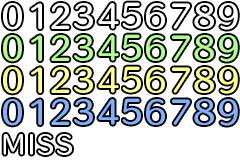
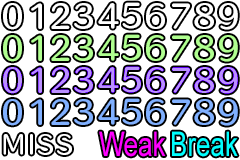
Pseudo Final Build

diff --git a/js/plugins.js b/js/plugins.js
@@ -9,7 +9,17 @@ var $plugins =
 {"name":"YEP_BattleEngineCore","status":true,"description":"v1.50 Have more control over the flow of the battle system\nwith this plugin and alter various aspects to your liking.","parameters":{"---General---":"","Action Speed":"agi","Default System":"dtb","---Escape---":"","Escape Ratio":"0.5 * $gameParty.agility() / $gameTroop.agility()","Fail Escape Boost":"0.10","---Animation---":"","Animation Base Delay":"0","Animation Next Delay":"0","Certain Hit Animation":"0","Physical Animation":"52","Magical Animation":"51","Enemy Attack Animation":"39","Reflect Animation":"42","Motion Waiting":"false","---Frontview---":"","Front Position X":"Graphics.boxWidth / 8 + Graphics.boxWidth / 4 * index","Front Position Y":"Graphics.boxHeight - 180","Front Actor Sprite":"false","Front Sprite Priority":"1","---Sideview---":"","Home Position X":"screenWidth - 16 - (maxSize + 2) * 32 + index * 32","Home Position Y":"screenHeight - statusHeight - maxSize * 48 + (index+1) * 48 - 32","Side Sprite Priority":"1","---Sprites---":"","Default X Anchor":"0.50","Default Y Anchor":"1.00","Step Distance":"48","Flinch Distance":"12","Show Shadows":"true","---Damage Popups---":"","Popup Duration":"128","Newest Popup Bottom":"true","Popup Overlap Rate":"0.9","Critical Popup":"255, 0, 0, 160","Critical Duration":"60","---Tick-Settings---":"","Timed States":"false","Timed Buffs":"false","Turn Time":"100","AI Self Turns":"true","---Window Settings---":"","Lower Windows":"true","Window Rows":"4","Command Window Rows":"4","Command Alignment":"center","Start Actor Command":"true","Current Max":"false","---Selection Help---":"","Mouse Over":"true","Select Help Window":"true","User Help Text":"User","Ally Help Text":"Ally","Allies Help Text":"Allies","Enemy Help Text":"Enemy","Enemies Help Text":"Enemies","All Help Text":"All %1","Random Help Text":"%2 Random %1","---Enemy Select---":"","Visual Enemy Select":"true","Show Enemy Name":"true","Show Select Box":"false","Enemy Font Size":"20","Enemy Auto Select":"this.furthestRight()","---Actor Select---":"","Visual Actor Select":"true","---Battle Log---":"","Show Emerge Text":"false","Show Pre-Emptive Text":"true","Show Surprise Text":"true","Optimize Speed":"true","Show Action Text":"false","Show State Text":"false","Show Buff Text":"false","Show Counter Text":"true","Show Reflect Text":"true","Show Substitute Text":"true","Show Fail Text":"false","Show Critical Text":"false","Show Miss Text":"false","Show Evasion Text":"false","Show HP Text":"false","Show MP Text":"false","Show TP Text":"false"}},
 {"name":"YEP_DamageCore","status":true,"description":"v1.08 Expand the control you have over the game's damage\ncalculation with more features and effects.","parameters":{"---Damage Cap---":"","Enable Cap":"true","Maximum Damage":"9999","Maximum Healing":"9999","---Damage Steps---":"","Damage Step 1":"baseDamage = this.modifyBaseDamage(value, baseDamage, target);","Damage Step 2":"baseDamage *= this.calcElementRate(target);","Damage Step 3":"","Damage Step 4":"","Damage Step 5":"","Damage Step 6":"critical = this.modifyCritical(critical, baseDamage, target);","Damage Step 7":"target.result().critical = critical;","Damage Step 8":"value = baseDamage;","Damage Step 9":"","Damage Step 10":"if (baseDamage > 0) {","Damage Step 11":"value = this.applyDamageRate(value, baseDamage, target);","Damage Step 12":"","Damage Step 13":"","Damage Step 14":"","Damage Step 15":"","Damage Step 16":"","Damage Step 17":"","Damage Step 18":"}","Damage Step 19":"","Damage Step 20":"if (baseDamage < 0) {","Damage Step 21":"value = this.applyHealRate(value, baseDamage, target);","Damage Step 22":"","Damage Step 23":"","Damage Step 24":"","Damage Step 25":"","Damage Step 26":"","Damage Step 27":"","Damage Step 28":"}","Damage Step 29":"","Damage Step 30":"if (critical) {","Damage Step 31":"value = this.applyCriticalRate(value, baseDamage, target);","Damage Step 32":"","Damage Step 33":"","Damage Step 34":"","Damage Step 35":"","Damage Step 36":"","Damage Step 37":"","Damage Step 38":"}","Damage Step 39":"","Damage Step 40":"if (this.isPhysical()) {","Damage Step 41":"value = this.applyPhysicalRate(value, baseDamage, target);","Damage Step 42":"","Damage Step 43":"","Damage Step 44":"","Damage Step 45":"","Damage Step 46":"","Damage Step 47":"value = this.applyFlatPhysical(value, baseDamage, target);","Damage Step 48":"}","Damage Step 49":"","Damage Step 50":"if (this.isMagical()) {","Damage Step 51":"value = this.applyMagicalRate(value, baseDamage, target);","Damage Step 52":"","Damage Step 53":"","Damage Step 54":"","Damage Step 55":"","Damage Step 56":"","Damage Step 57":"value = this.applyFlatMagical(value, baseDamage, target);","Damage Step 58":"}","Damage Step 59":"","Damage Step 60":"if (baseDamage > 0) {","Damage Step 61":"value = this.applyFlatDamage(value, baseDamage, target);","Damage Step 62":"","Damage Step 63":"","Damage Step 64":"","Damage Step 65":"","Damage Step 66":"","Damage Step 67":"","Damage Step 68":"}","Damage Step 69":"","Damage Step 70":"if (baseDamage < 0) {","Damage Step 71":"value = this.applyFlatHeal(value, baseDamage, target);","Damage Step 72":"","Damage Step 73":"","Damage Step 74":"","Damage Step 75":"","Damage Step 76":"","Damage Step 77":"","Damage Step 78":"}","Damage Step 79":"","Damage Step 80":"if (critical) {","Damage Step 81":"value = this.applyFlatCritical(value, baseDamage, target);","Damage Step 82":"","Damage Step 83":"","Damage Step 84":"","Damage Step 85":"","Damage Step 86":"","Damage Step 87":"","Damage Step 88":"}","Damage Step 89":"","Damage Step 90":"value = this.applyVariance(value, item.damage.variance);","Damage Step 91":"","Damage Step 92":"","Damage Step 93":"","Damage Step 94":"","Damage Step 95":"value = this.applyGuard(value, target);","Damage Step 96":"","Damage Step 97":"","Damage Step 98":"","Damage Step 99":"value = this.applyFlatGlobal(value, baseDamage, target);","Damage Step 100":"value = this.applyMinimumDamage(value, baseDamage, target);"}},
 {"name":"YEP_X_ArmorScaling","status":true,"description":"v1.05 (Requires YEP_DamageCore.js) Scale defensive\nstats relative to a universal scale.","parameters":{"---Physical---":"","Positive Physical Rate":"value *= 100 / (100 + armor)","Negative Physical Rate":"value *= 2 - (100 / (100 - armor))","Physical Base Armor":"target.def / 2","---Magical---":"","Positive Magical Rate":"value *= 100 / (100 + armor)","Negative Magical Rate":"value *= 2 - (100 / (100 - armor))","Magical Base Armor":"target.mdf / 2","---Certain---":"","Positive Certain Rate":"value *= 100 / (100 + armor)","Negative Certain Rate":"value *= 2 - (100 / (100 - armor))","Certain Base Armor":"0"}},
+{"name":"YEP_X_VisualHpGauge","status":true,"description":"v1.07 (Requires YEP_BattleEngineCore.js) Reveal HP Gauges\nwhen a battler is selected or takes damage in battle.","parameters":{"---General---":"","Display Actor":"false","Defeat First":"false","Always Visible":"true","---Appearance---":"","Minimum Gauge Width":"144","Gauge Height":"18","Back Color":"19","HP Color 1":"20","HP Color 2":"21","Gauge Duration":"30","Gauge Position":"false","Y Buffer":"-16","Use Thick Gauges":"true","---Text Display---":"","Show HP":"false","Show Value":"false","Show Max":"false"}},
+{"name":"Olivia_BattleSysOTB","status":true,"description":"<BattleSysOTB> for RPG Maker MV version 1.6.1.","parameters":{"":"","ATTENTION!!!":"READ THE HELP FILE","Warning OTB":"Requires YEP_BattleEngineCore","OTB Force Battle System":"true","OTB Mechancs":"","OTB Mechanics Action Speed Convert":"true","OTB Mechanics Buff Debuff AGI Convert":"true","OTB Mechanics Added Action Times":"true","OTB Mechanics Action Time Order Randomize":"true","OTB Mechanics Enable Party Window":"false","OTB Mechanics Escape Actor Window":"true","OTB Mechanics Remove Restrict Current":"true","OTB Mechanics Remove Restrict Next":"true","OTB Mechanics Static AGI Calculation":"true","OTB Mechanics Stun Wakeup First":"true","OTB Mechanics Stun Wakeup Clamp":"true","OTB Visuals":"","OTB Sprite Background Colors":"","OTB Background Actor Color":"rgba(128, 160, 255, 0.6)","OTB Background Enemy Color":"rgba(255, 100, 80, 0.6)","OTB Turn Order Display":"","OTB Display X":"48","OTB Display Y":"18","OTB Display Help Window Move Y":"18","OTB Display Help Window Move Speed":"16","OTB Display Current Text":"CURRENT","OTB Display Current Size":"20","OTB Display Next Text":"NEXT","OTB Display Next Size":"20","OTB Sprite Properties":"","OTB Sprite Move Duration":"20","OTB Sprite Opacity Speed":"16","OTB Battle Scene Properties":"","OTB Help Window Y":"92","OTB Log Window Y":"92"}},
+{"name":"Olivia_BattleEffects","status":true,"description":"<BattleEffects> for RPG Maker MV version 1.6.1.","parameters":{"":"","ATTENTION!!!":"READ THE HELP FILE","Battle Effects Weak Popups":"true","Battle Effects Weak Popup Require Rate":"1.1","Battle Effects Weak Popup Cell X":"4","Battle Effects Weak Popup Cell Width":"3","Battle Effects Weak Popup Cell X Factor":"0.25","Battle Effects Weak Popup Cell Y Factor":"0.60","Battle Effects Weak Popup Move X Base":"-0.04","Battle Effects Weak Popup Move X Rate":"1.1","Battle Effects Weak Popup Move Y Base":"0","Battle Effects Weak Popup Move Y Rate":"0","Battle Effects Break Popups":"true","Battle Effects Break Popup Cell X":"7","Battle Effects Break Popup Cell Width":"3","Battle Effects Break Popup Cell X Factor":"0.25","Battle Effects Break Popup Cell Y Factor":"0.60","Battle Effects Break Popup Move X Base":"-0.04","Battle Effects Break Popup Move X Rate":"1.1","Battle Effects Break Popup Move Y Base":"0","Battle Effects Break Popup Move Y Rate":"0","Stacking Buff/Debuffs":"","Battle Effects Stack Buff Turns":"true","Battle Effects Max Buff Turns":"9","Battle Effects Stack Debuff Turns":"true","Battle Effects Max Debuff Turns":"9"}},
 {"name":"YEP_LifeSteal","status":true,"description":"v1.04 Enables passive life steal traits without them being\nactive abilities but instead as passive traits.","parameters":{"Enable HP Overheal":"false","Enable MP Overheal":"false","Negative HP LifeSteal":"false","Negative MP LifeSteal":"false"}},
 {"name":"YEP_SkillCore","status":true,"description":"v1.13 Skills are now given more functions and the ability\r\nto require different types of costs.","parameters":{"---General---":"","Cost Padding":"4","Command Alignment":"center","Window Columns":"2","---HP Costs---":"","HP Format":"%1%2","HP Font Size":"20","HP Text Color":"18","HP Icon":"162","---MP Costs---":"","MP Format":"%1%2","MP Font Size":"20","MP Text Color":"23","MP Icon":"165","---TP Costs---":"","TP Format":"%1%2","TP Font Size":"20","TP Text Color":"29","TP Icon":"164"}},
-{"name":"Olivia_WeaknessDisplay","status":false,"description":"<WeaknessDisplay> for RPG Maker MV version 1.6.1.","parameters":{"":"","ATTENTION!!!":"READ THE HELP FILE","Weakness Element Data":"","Shown Elements":"[\"1\",\"2\",\"3\",\"4\",\"5\",\"6\",\"7\",\"8\",\"9\"]","Element Icons":"[\"76\",\"64\",\"65\",\"66\",\"67\",\"68\",\"69\",\"70\",\"71\"]","Unknown Weakness Icon":"16","Weakness Window Data":"","Weakness Always Show":"true","Weakness Hide Duration":"180","Weakness Show Break Shield":"true","Weakness Stun Duration":"false","Weakness Show HP Gauge":"true","HP Gauge Minimum Width":"100","HP Gauge Padding":"25","Weakness Show Name":"true","Name Font Size":"22","50% HP Color":"17","25% HP Color":"2","Weakness Show States":"true","Small Weakness Icons":"true","Weak Icon Size":"0.6"}}
+{"name":"YEP_SegmentedGauges","status":true,"description":"v1.01 Segment up your gauges to make them easier to read.","parameters":{"---Segments---":"","HP Gauge Segments":"100","MP Gauge Segments":"15","TP Gauge Segments":"10","---Status Menu Core---":"","EXP Gauge Segments":"100","Param Gauge Segments":"100"}},
+{"name":"YEP_CreditsPage","status":true,"description":"v1.02 Adds a 'Credits' command to the title screen that\nwill take the player to a credits scene.","parameters":{"---General---":"","Command Name":"Credits","---Credit Lines---":"","Line 1 Text":"","Line 1 URL":"","Line 2 Text":"","Line 2 URL":"","Line 3 Text":"","Line 3 URL":"","Line 4 Text":"","Line 4 URL":"","Line 5 Text":"","Line 5 URL":"","Line 6 Text":"","Line 6 URL":"","Line 7 Text":"","Line 7 URL":"","Line 8 Text":"","Line 8 URL":"","Line 9 Text":"","Line 9 URL":"","Line 10 Text":"","Line 10 URL":"","Line 11 Text":"","Line 11 URL":"","Line 12 Text":"","Line 12 URL":"","Line 13 Text":"","Line 13 URL":"","Line 14 Text":"","Line 14 URL":"","Line 15 Text":"","Line 15 URL":"","Line 16 Text":"","Line 16 URL":"","Line 17 Text":"","Line 17 URL":"","Line 18 Text":"","Line 18 URL":"","Line 19 Text":"","Line 19 URL":"","Line 20 Text":"","Line 20 URL":"","Line 21 Text":"","Line 21 URL":"","Line 22 Text":"","Line 22 URL":"","Line 23 Text":"","Line 23 URL":"","Line 24 Text":"","Line 24 URL":"","Line 25 Text":"","Line 25 URL":"","Line 26 Text":"","Line 26 URL":"","Line 27 Text":"","Line 27 URL":"","Line 28 Text":"","Line 28 URL":"","Line 29 Text":"","Line 29 URL":"","Line 30 Text":"","Line 30 URL":"","Line 31 Text":"","Line 31 URL":"","Line 32 Text":"","Line 32 URL":"","Line 33 Text":"","Line 33 URL":"","Line 34 Text":"","Line 34 URL":"","Line 35 Text":"","Line 35 URL":"","Line 36 Text":"","Line 36 URL":"","Line 37 Text":"","Line 37 URL":"","Line 38 Text":"","Line 38 URL":"","Line 39 Text":"","Line 39 URL":"","Line 40 Text":"","Line 40 URL":"","Line 41 Text":"","Line 41 URL":"","Line 42 Text":"","Line 42 URL":"","Line 43 Text":"","Line 43 URL":"","Line 44 Text":"","Line 44 URL":"","Line 45 Text":"","Line 45 URL":"","Line 46 Text":"","Line 46 URL":"","Line 47 Text":"","Line 47 URL":"","Line 48 Text":"","Line 48 URL":"","Line 49 Text":"","Line 49 URL":"","Line 50 Text":"","Line 50 URL":"","Line 51 Text":"","Line 51 URL":"","Line 52 Text":"","Line 52 URL":"","Line 53 Text":"","Line 53 URL":"","Line 54 Text":"","Line 54 URL":"","Line 55 Text":"","Line 55 URL":"","Line 56 Text":"","Line 56 URL":"","Line 57 Text":"","Line 57 URL":"","Line 58 Text":"","Line 58 URL":"","Line 59 Text":"","Line 59 URL":"","Line 60 Text":"","Line 60 URL":"","Line 61 Text":"","Line 61 URL":"","Line 62 Text":"","Line 62 URL":"","Line 63 Text":"","Line 63 URL":"","Line 64 Text":"","Line 64 URL":"","Line 65 Text":"","Line 65 URL":"","Line 66 Text":"","Line 66 URL":"","Line 67 Text":"","Line 67 URL":"","Line 68 Text":"","Line 68 URL":"","Line 69 Text":"","Line 69 URL":"","Line 70 Text":"","Line 70 URL":"","Line 71 Text":"","Line 71 URL":"","Line 72 Text":"","Line 72 URL":"","Line 73 Text":"","Line 73 URL":"","Line 74 Text":"","Line 74 URL":"","Line 75 Text":"","Line 75 URL":"","Line 76 Text":"","Line 76 URL":"","Line 77 Text":"","Line 77 URL":"","Line 78 Text":"","Line 78 URL":"","Line 79 Text":"","Line 79 URL":"","Line 80 Text":"","Line 80 URL":"","Line 81 Text":"","Line 81 URL":"","Line 82 Text":"","Line 82 URL":"","Line 83 Text":"","Line 83 URL":"","Line 84 Text":"","Line 84 URL":"","Line 85 Text":"","Line 85 URL":"","Line 86 Text":"","Line 86 URL":"","Line 87 Text":"","Line 87 URL":"","Line 88 Text":"","Line 88 URL":"","Line 89 Text":"","Line 89 URL":"","Line 90 Text":"","Line 90 URL":"","Line 91 Text":"","Line 91 URL":"","Line 92 Text":"","Line 92 URL":"","Line 93 Text":"","Line 93 URL":"","Line 94 Text":"","Line 94 URL":"","Line 95 Text":"","Line 95 URL":"","Line 96 Text":"","Line 96 URL":"","Line 97 Text":"","Line 97 URL":"","Line 98 Text":"","Line 98 URL":"","Line 99 Text":"","Line 99 URL":"","Line 100 Text":"","Line 100 URL":"","Line 101 Text":"","Line 101 URL":"","Line 102 Text":"","Line 102 URL":"","Line 103 Text":"","Line 103 URL":"","Line 104 Text":"","Line 104 URL":"","Line 105 Text":"","Line 105 URL":"","Line 106 Text":"","Line 106 URL":"","Line 107 Text":"","Line 107 URL":"","Line 108 Text":"","Line 108 URL":"","Line 109 Text":"","Line 109 URL":"","Line 110 Text":"","Line 110 URL":"","Line 111 Text":"","Line 111 URL":"","Line 112 Text":"","Line 112 URL":"","Line 113 Text":"","Line 113 URL":"","Line 114 Text":"","Line 114 URL":"","Line 115 Text":"","Line 115 URL":"","Line 116 Text":"","Line 116 URL":"","Line 117 Text":"","Line 117 URL":"","Line 118 Text":"","Line 118 URL":"","Line 119 Text":"","Line 119 URL":"","Line 120 Text":"","Line 120 URL":"","Line 121 Text":"","Line 121 URL":"","Line 122 Text":"","Line 122 URL":"","Line 123 Text":"","Line 123 URL":"","Line 124 Text":"","Line 124 URL":"","Line 125 Text":"","Line 125 URL":"","Line 126 Text":"","Line 126 URL":"","Line 127 Text":"","Line 127 URL":"","Line 128 Text":"","Line 128 URL":"","Line 129 Text":"","Line 129 URL":"","Line 130 Text":"","Line 130 URL":"","Line 131 Text":"","Line 131 URL":"","Line 132 Text":"","Line 132 URL":"","Line 133 Text":"","Line 133 URL":"","Line 134 Text":"","Line 134 URL":"","Line 135 Text":"","Line 135 URL":"","Line 136 Text":"","Line 136 URL":"","Line 137 Text":"","Line 137 URL":"","Line 138 Text":"","Line 138 URL":"","Line 139 Text":"","Line 139 URL":"","Line 140 Text":"","Line 140 URL":"","Line 141 Text":"","Line 141 URL":"","Line 142 Text":"","Line 142 URL":"","Line 143 Text":"","Line 143 URL":"","Line 144 Text":"","Line 144 URL":"","Line 145 Text":"","Line 145 URL":"","Line 146 Text":"","Line 146 URL":"","Line 147 Text":"","Line 147 URL":"","Line 148 Text":"","Line 148 URL":"","Line 149 Text":"","Line 149 URL":"","Line 150 Text":"","Line 150 URL":"","Line 151 Text":"","Line 151 URL":"","Line 152 Text":"","Line 152 URL":"","Line 153 Text":"","Line 153 URL":"","Line 154 Text":"","Line 154 URL":"","Line 155 Text":"","Line 155 URL":"","Line 156 Text":"","Line 156 URL":"","Line 157 Text":"","Line 157 URL":"","Line 158 Text":"","Line 158 URL":"","Line 159 Text":"","Line 159 URL":"","Line 160 Text":"","Line 160 URL":"","Line 161 Text":"","Line 161 URL":"","Line 162 Text":"","Line 162 URL":"","Line 163 Text":"","Line 163 URL":"","Line 164 Text":"","Line 164 URL":"","Line 165 Text":"","Line 165 URL":"","Line 166 Text":"","Line 166 URL":"","Line 167 Text":"","Line 167 URL":"","Line 168 Text":"","Line 168 URL":"","Line 169 Text":"","Line 169 URL":"","Line 170 Text":"","Line 170 URL":"","Line 171 Text":"","Line 171 URL":"","Line 172 Text":"","Line 172 URL":"","Line 173 Text":"","Line 173 URL":"","Line 174 Text":"","Line 174 URL":"","Line 175 Text":"","Line 175 URL":"","Line 176 Text":"","Line 176 URL":"","Line 177 Text":"","Line 177 URL":"","Line 178 Text":"","Line 178 URL":"","Line 179 Text":"","Line 179 URL":"","Line 180 Text":"","Line 180 URL":"","Line 181 Text":"","Line 181 URL":"","Line 182 Text":"","Line 182 URL":"","Line 183 Text":"","Line 183 URL":"","Line 184 Text":"","Line 184 URL":"","Line 185 Text":"","Line 185 URL":"","Line 186 Text":"","Line 186 URL":"","Line 187 Text":"","Line 187 URL":"","Line 188 Text":"","Line 188 URL":"","Line 189 Text":"","Line 189 URL":"","Line 190 Text":"","Line 190 URL":"","Line 191 Text":"","Line 191 URL":"","Line 192 Text":"","Line 192 URL":"","Line 193 Text":"","Line 193 URL":"","Line 194 Text":"","Line 194 URL":"","Line 195 Text":"","Line 195 URL":"","Line 196 Text":"","Line 196 URL":"","Line 197 Text":"","Line 197 URL":"","Line 198 Text":"","Line 198 URL":"","Line 199 Text":"","Line 199 URL":"","Line 200 Text":"","Line 200 URL":"","Line 201 Text":"","Line 201 URL":"","Line 202 Text":"","Line 202 URL":"","Line 203 Text":"","Line 203 URL":"","Line 204 Text":"","Line 204 URL":"","Line 205 Text":"","Line 205 URL":"","Line 206 Text":"","Line 206 URL":"","Line 207 Text":"","Line 207 URL":"","Line 208 Text":"","Line 208 URL":"","Line 209 Text":"","Line 209 URL":"","Line 210 Text":"","Line 210 URL":"","Line 211 Text":"","Line 211 URL":"","Line 212 Text":"","Line 212 URL":"","Line 213 Text":"","Line 213 URL":"","Line 214 Text":"","Line 214 URL":"","Line 215 Text":"","Line 215 URL":"","Line 216 Text":"","Line 216 URL":"","Line 217 Text":"","Line 217 URL":"","Line 218 Text":"","Line 218 URL":"","Line 219 Text":"","Line 219 URL":"","Line 220 Text":"","Line 220 URL":"","Line 221 Text":"","Line 221 URL":"","Line 222 Text":"","Line 222 URL":"","Line 223 Text":"","Line 223 URL":"","Line 224 Text":"","Line 224 URL":"","Line 225 Text":"","Line 225 URL":"","Line 226 Text":"","Line 226 URL":"","Line 227 Text":"","Line 227 URL":"","Line 228 Text":"","Line 228 URL":"","Line 229 Text":"","Line 229 URL":"","Line 230 Text":"","Line 230 URL":"","Line 231 Text":"","Line 231 URL":"","Line 232 Text":"","Line 232 URL":"","Line 233 Text":"","Line 233 URL":"","Line 234 Text":"","Line 234 URL":"","Line 235 Text":"","Line 235 URL":"","Line 236 Text":"","Line 236 URL":"","Line 237 Text":"","Line 237 URL":"","Line 238 Text":"","Line 238 URL":"","Line 239 Text":"","Line 239 URL":"","Line 240 Text":"","Line 240 URL":"","Line 241 Text":"","Line 241 URL":"","Line 242 Text":"","Line 242 URL":"","Line 243 Text":"","Line 243 URL":"","Line 244 Text":"","Line 244 URL":"","Line 245 Text":"","Line 245 URL":"","Line 246 Text":"","Line 246 URL":"","Line 247 Text":"","Line 247 URL":"","Line 248 Text":"","Line 248 URL":"","Line 249 Text":"","Line 249 URL":"","Line 250 Text":"","Line 250 URL":"","Line 251 Text":"","Line 251 URL":"","Line 252 Text":"","Line 252 URL":"","Line 253 Text":"","Line 253 URL":"","Line 254 Text":"","Line 254 URL":"","Line 255 Text":"","Line 255 URL":"","Line 256 Text":"","Line 256 URL":"","Line 257 Text":"","Line 257 URL":"","Line 258 Text":"","Line 258 URL":"","Line 259 Text":"","Line 259 URL":"","Line 260 Text":"","Line 260 URL":"","Line 261 Text":"","Line 261 URL":"","Line 262 Text":"","Line 262 URL":"","Line 263 Text":"","Line 263 URL":"","Line 264 Text":"","Line 264 URL":"","Line 265 Text":"","Line 265 URL":"","Line 266 Text":"","Line 266 URL":"","Line 267 Text":"","Line 267 URL":"","Line 268 Text":"","Line 268 URL":"","Line 269 Text":"","Line 269 URL":"","Line 270 Text":"","Line 270 URL":"","Line 271 Text":"","Line 271 URL":"","Line 272 Text":"","Line 272 URL":"","Line 273 Text":"","Line 273 URL":"","Line 274 Text":"","Line 274 URL":"","Line 275 Text":"","Line 275 URL":"","Line 276 Text":"","Line 276 URL":"","Line 277 Text":"","Line 277 URL":"","Line 278 Text":"","Line 278 URL":"","Line 279 Text":"","Line 279 URL":"","Line 280 Text":"","Line 280 URL":"","Line 281 Text":"","Line 281 URL":"","Line 282 Text":"","Line 282 URL":"","Line 283 Text":"","Line 283 URL":"","Line 284 Text":"","Line 284 URL":"","Line 285 Text":"","Line 285 URL":"","Line 286 Text":"","Line 286 URL":"","Line 287 Text":"","Line 287 URL":"","Line 288 Text":"","Line 288 URL":"","Line 289 Text":"","Line 289 URL":"","Line 290 Text":"","Line 290 URL":"","Line 291 Text":"","Line 291 URL":"","Line 292 Text":"","Line 292 URL":"","Line 293 Text":"","Line 293 URL":"","Line 294 Text":"","Line 294 URL":"","Line 295 Text":"","Line 295 URL":"","Line 296 Text":"","Line 296 URL":"","Line 297 Text":"","Line 297 URL":"","Line 298 Text":"","Line 298 URL":"","Line 299 Text":"","Line 299 URL":"","Line 300 Text":"","Line 300 URL":""}},
+{"name":"Olivia_BattleSysOTB","status":true,"description":"<BattleSysOTB> for RPG Maker MV version 1.6.1.","parameters":{"":"","ATTENTION!!!":"READ THE HELP FILE","Warning OTB":"Requires YEP_BattleEngineCore","OTB Force Battle System":"true","OTB Mechancs":"","OTB Mechanics Action Speed Convert":"true","OTB Mechanics Buff Debuff AGI Convert":"true","OTB Mechanics Added Action Times":"true","OTB Mechanics Action Time Order Randomize":"true","OTB Mechanics Enable Party Window":"false","OTB Mechanics Escape Actor Window":"true","OTB Mechanics Remove Restrict Current":"true","OTB Mechanics Remove Restrict Next":"true","OTB Mechanics Static AGI Calculation":"true","OTB Mechanics Stun Wakeup First":"true","OTB Mechanics Stun Wakeup Clamp":"true","OTB Visuals":"","OTB Sprite Background Colors":"","OTB Background Actor Color":"rgba(128, 160, 255, 0.6)","OTB Background Enemy Color":"rgba(255, 100, 80, 0.6)","OTB Turn Order Display":"","OTB Display X":"48","OTB Display Y":"18","OTB Display Help Window Move Y":"18","OTB Display Help Window Move Speed":"16","OTB Display Current Text":"CURRENT","OTB Display Current Size":"20","OTB Display Next Text":"NEXT","OTB Display Next Size":"20","OTB Sprite Properties":"","OTB Sprite Move Duration":"20","OTB Sprite Opacity Speed":"16","OTB Battle Scene Properties":"","OTB Help Window Y":"92","OTB Log Window Y":"92"}},
+{"name":"Olivia_BattleEffects","status":true,"description":"<BattleEffects> for RPG Maker MV version 1.6.1.","parameters":{"":"","ATTENTION!!!":"READ THE HELP FILE","Battle Effects Weak Popups":"true","Battle Effects Weak Popup Require Rate":"1.1","Battle Effects Weak Popup Cell X":"4","Battle Effects Weak Popup Cell Width":"3","Battle Effects Weak Popup Cell X Factor":"0.25","Battle Effects Weak Popup Cell Y Factor":"0.60","Battle Effects Weak Popup Move X Base":"-0.04","Battle Effects Weak Popup Move X Rate":"1.1","Battle Effects Weak Popup Move Y Base":"0","Battle Effects Weak Popup Move Y Rate":"0","Battle Effects Break Popups":"true","Battle Effects Break Popup Cell X":"7","Battle Effects Break Popup Cell Width":"3","Battle Effects Break Popup Cell X Factor":"0.25","Battle Effects Break Popup Cell Y Factor":"0.60","Battle Effects Break Popup Move X Base":"-0.04","Battle Effects Break Popup Move X Rate":"1.1","Battle Effects Break Popup Move Y Base":"0","Battle Effects Break Popup Move Y Rate":"0","Stacking Buff/Debuffs":"","Battle Effects Stack Buff Turns":"true","Battle Effects Max Buff Turns":"9","Battle Effects Stack Debuff Turns":"true","Battle Effects Max Debuff Turns":"9"}},
+{"name":"Olivia_BattleEffects2","status":true,"description":"<BattleEffects2> for RPG Maker MV version 1.6.1.","parameters":{"":"","ATTENTION!!!":"READ THE HELP FILE","Critical Popup":"true","CriticalFlashFull":"255","CriticalFlashHalf":"128","CriticalFlashAlpha":"80","Rolling Damage":"true","RollingDamageDuration":"20","TP Overheal Maximum":"200"}},
+{"name":"Olivia_SideBattleUI","status":true,"description":"<SideBattleUI> for RPG Maker MV version 1.6.1.","parameters":{"":"","ATTENTION!!!":"READ THE HELP FILE","Warning Side Battle UI":"Requires YEP_BattleEngineCore","Side Battle Position Actors":"true","Side Battle Actor X":"Graphics.boxWidth * 0.5 + 128 + index * 64","Side Battle Actor Y":"Graphics.boxHeight - 128 - ($gameParty.maxBattleMembers() - index - 1) * 48","Side Battle Position Enemies":"true","Side Battle Enemy X":"x","Side Battle Enemy Y":"Graphics.boxHeight - 444 - 128 + y","Side UI Status Window":"","Side Battle Ceiling Distance":"0","Side Battle Gauge Height":"6","Side Battle Gauge Width":"160","Side Battle Status Move Active":"48","Side Battle Status Move Selected":"24","Side Battle Status Move Speed":"4","Side Battle Status States Max":"4","Side Battle Status Scale":"0.6","Side Battle Status Width":"200","Side UI Window Settings":"","Side Battle Dim Help Window":"true","Side Battle Command Window Width":"160","Side Battle List Window Max":"8","Side Battle List Window Width":"320","Side Battle Command Window Scale":"0.8","Side Battle Window Masking":"false"}},
+{"name":"Olivia_WeaknessDisplay","status":true,"description":"<WeaknessDisplay> for RPG Maker MV version 1.6.1.","parameters":{"":"","ATTENTION!!!":"READ THE HELP FILE","Weakness Element Data":"","Shown Elements":"[\"1\",\"2\",\"3\",\"4\",\"5\",\"6\",\"7\",\"8\",\"9\",\"10\"]","Element Icons":"[\"76\",\"64\",\"65\",\"66\",\"69\",\"70\",\"71\",\"48\",\"107\",\"97\"]","Unknown Weakness Icon":"16","Weakness Window Data":"","Weakness Always Show":"true","Weakness Hide Duration":"180","Weakness Show Break Shield":"true","Weakness Stun Duration":"false","Weakness Show HP Gauge":"false","HP Gauge Minimum Width":"100","HP Gauge Padding":"25","Weakness Show Name":"true","Name Font Size":"22","50% HP Color":"17","25% HP Color":"2","Weakness Show States":"true","Small Weakness Icons":"true","Weak Icon Size":"0.6"}},
+{"name":"heal_on_level_up_(mv)","status":true,"description":"Allows you to heal actors on level up","parameters":{"All HP":"Y","All MP":"Y","All States":"Y"}}
 ];
